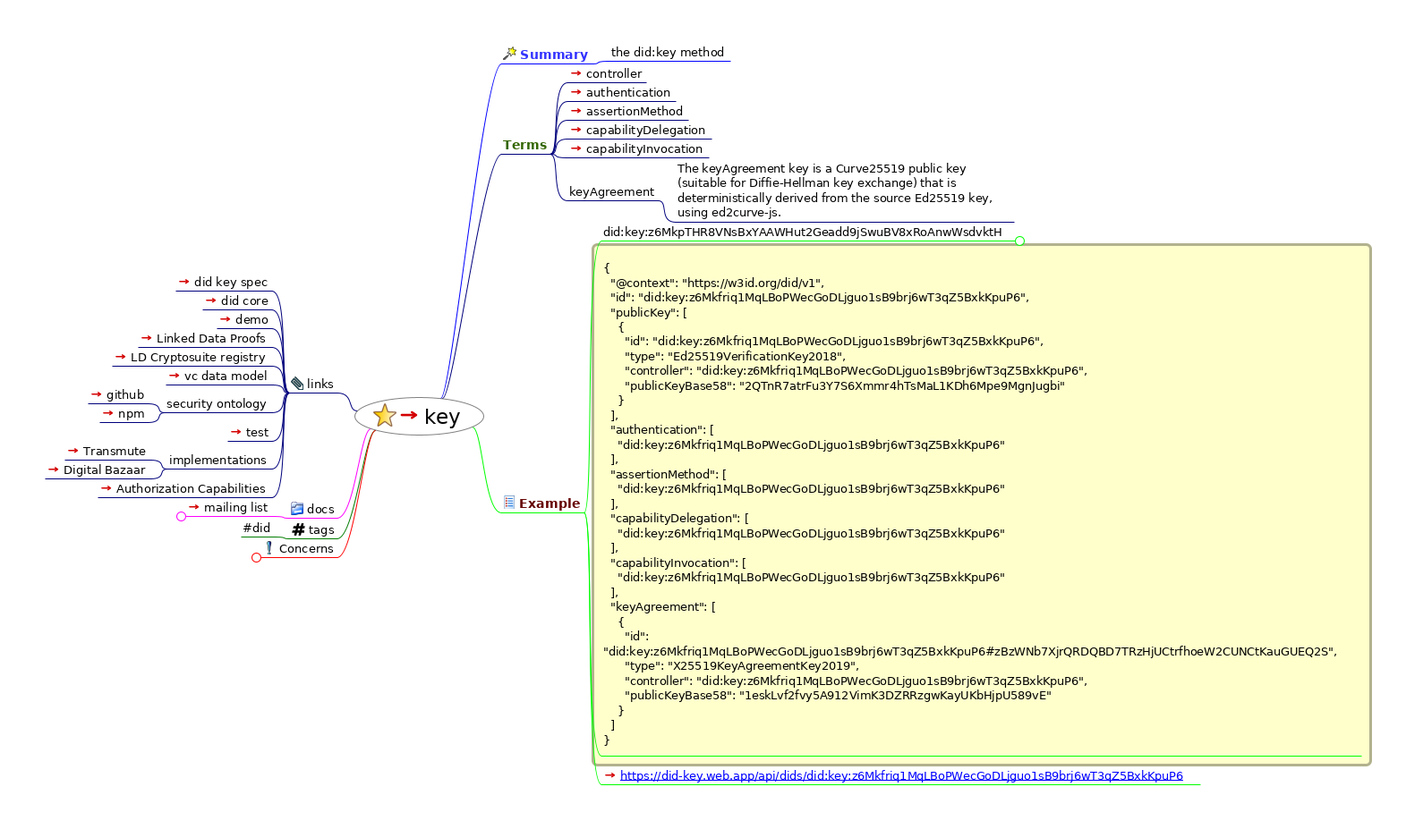
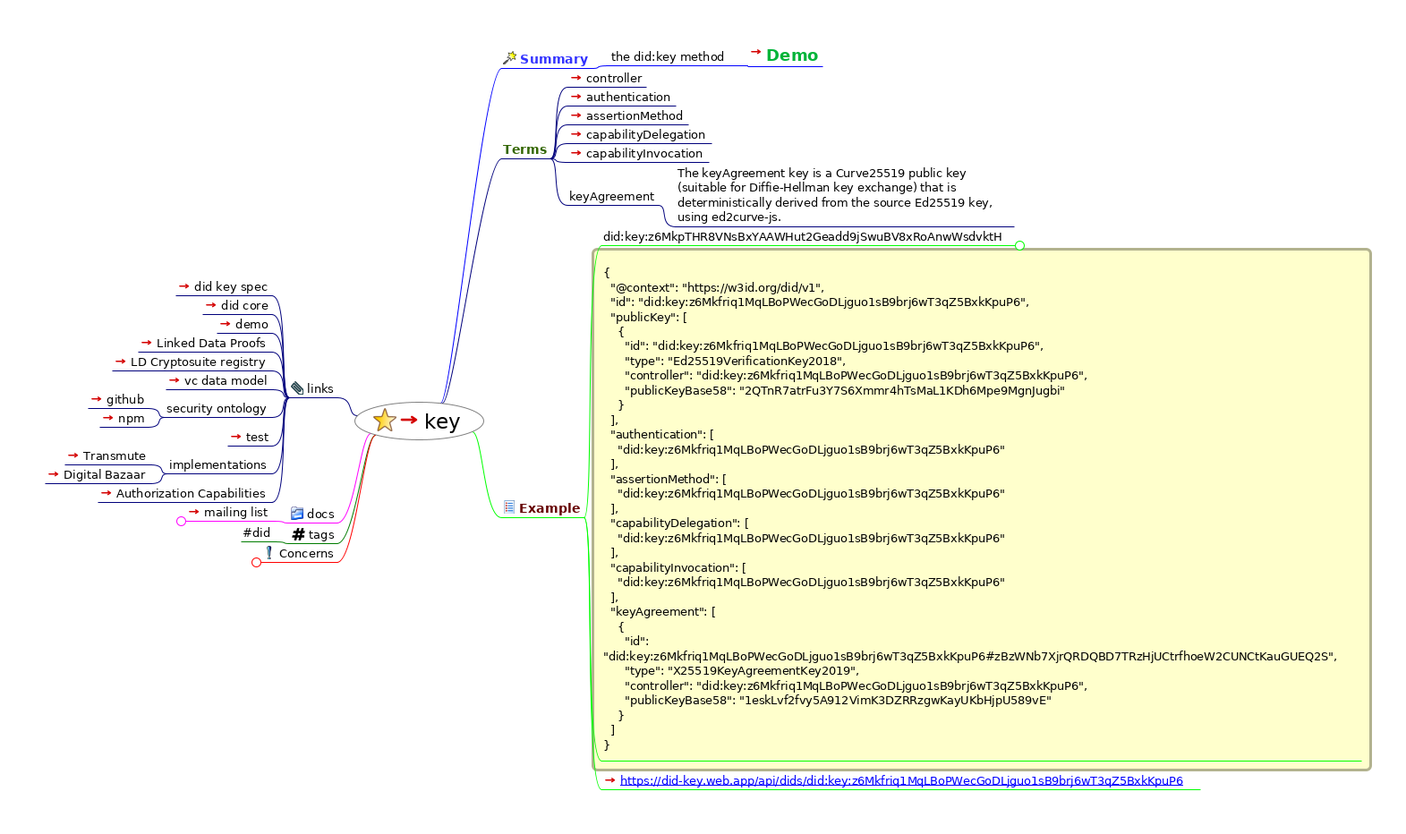
add demo to did key

diff --git a/w3c/did/key.html b/w3c/did/key.html
@@ -23,46 +23,47 @@
                    };
                };
           
-          --></script></head><body><h1>key</h1><div style="width:96%;  padding:2%;  margin-bottom:10px;  border: 0px;  text-align:center;  vertical-align:center;"><img src="key.html_files/image.png" style="margin-bottom:10px; &#9;border: 0px; &#9;text-align:center; &#9;vertical-align:center;" alt="Imagemap" usemap="#fm_imagemap" /></div><map name="fm_imagemap" id="fm_imagemap"><area shape="rect" href="index.html" alt="key" title="key" coords="396,444,541,487" />
-<area shape="rect" href="#FMID_1226961462FM" alt="Summary" title="Summary" coords="560,52,662,71" />
-<area shape="rect" href="#FMID_1311877564FM" alt="the did:key method" title="the did:key method" coords="681,50,816,68" />
-<area shape="rect" href="#FMID_45642208FM" alt="Terms" title="Terms" coords="560,153,615,172" />
-<area shape="rect" href="https://www.w3.org/TR/did-core/#terminology" alt="controller" title="controller" coords="634,74,722,92" />
-<area shape="rect" href="https://www.w3.org/TR/did-core/#authentication" alt="authentication" title="authentication" coords="634,95,755,113" />
-<area shape="rect" href="https://w3c.github.io/vc-data-model/#proofs-signatures-0" alt="assertionMethod" title="assertionMethod" coords="634,116,769,134" />
-<area shape="rect" href="https://w3c-ccg.github.io/zcap-ld/#terminology" alt="capabilityDelegation" title="capabilityDelegation" coords="634,137,795,155" />
-<area shape="rect" href="https://w3c-ccg.github.io/zcap-ld/#terminology" alt="capabilityInvocation" title="capabilityInvocation" coords="634,158,792,176" />
-<area shape="rect" href="#FMID_1908240927FM" alt="keyAgreement" title="keyAgreement" coords="634,206,736,224" />
-<area shape="rect" href="#FMID_1618462584FM" alt="The keyAgreement key is a Curve25519 pub ..." title="The keyAgreement key is a Curve25519 pub ..." coords="755,179,1133,248" />
-<area shape="rect" href="#FMID_120250381FM" alt="Example" title="Example" coords="560,554,653,573" />
-<area shape="rect" href="#FMID_985403617FM" alt="did:key:z6MkpTHR8VNsBxYAAWHut2Geadd9jSwu ..." title="did:key:z6MkpTHR8VNsBxYAAWHut2Geadd9jSwu ..." coords="672,251,1135,269" />
+          --></script></head><body><h1>key</h1><div style="width:96%;  padding:2%;  margin-bottom:10px;  border: 0px;  text-align:center;  vertical-align:center;"><img src="key.html_files/image.png" style="margin-bottom:10px; &#9;border: 0px; &#9;text-align:center; &#9;vertical-align:center;" alt="Imagemap" usemap="#fm_imagemap" /></div><map name="fm_imagemap" id="fm_imagemap"><area shape="rect" href="index.html" alt="key" title="key" coords="396,449,541,492" />
+<area shape="rect" href="#FMID_1226961462FM" alt="Summary" title="Summary" coords="560,57,662,76" />
+<area shape="rect" href="#FMID_1311877564FM" alt="the did:key method" title="the did:key method" coords="681,55,816,73" />
+<area shape="rect" href="https://did-key.web.app/" alt="Demo" title="Demo" coords="835,50,919,74" />
+<area shape="rect" href="#FMID_45642208FM" alt="Terms" title="Terms" coords="560,158,615,177" />
+<area shape="rect" href="https://www.w3.org/TR/did-core/#terminology" alt="controller" title="controller" coords="634,79,722,97" />
+<area shape="rect" href="https://www.w3.org/TR/did-core/#authentication" alt="authentication" title="authentication" coords="634,100,755,118" />
+<area shape="rect" href="https://w3c.github.io/vc-data-model/#proofs-signatures-0" alt="assertionMethod" title="assertionMethod" coords="634,121,769,139" />
+<area shape="rect" href="https://w3c-ccg.github.io/zcap-ld/#terminology" alt="capabilityDelegation" title="capabilityDelegation" coords="634,142,795,160" />
+<area shape="rect" href="https://w3c-ccg.github.io/zcap-ld/#terminology" alt="capabilityInvocation" title="capabilityInvocation" coords="634,163,792,181" />
+<area shape="rect" href="#FMID_1908240927FM" alt="keyAgreement" title="keyAgreement" coords="634,211,736,229" />
+<area shape="rect" href="#FMID_1618462584FM" alt="The keyAgreement key is a Curve25519 pub ..." title="The keyAgreement key is a Curve25519 pub ..." coords="755,184,1133,253" />
+<area shape="rect" href="#FMID_120250381FM" alt="Example" title="Example" coords="560,559,653,578" />
+<area shape="rect" href="#FMID_985403617FM" alt="did:key:z6MkpTHR8VNsBxYAAWHut2Geadd9jSwu ..." title="did:key:z6MkpTHR8VNsBxYAAWHut2Geadd9jSwu ..." coords="672,256,1135,274" />
 <area shape="rect" href="#FMID_63600178FM" alt="{
   &quot;@context&quot;: &quot;https://w3id.org/did/v1 ..." title="{
-  &quot;@context&quot;: &quot;https://w3id.org/did/v1 ..." coords="672,283,1521,845" />
-<area shape="rect" href="https://did-key.web.app/api/dids/did:key:z6Mkfriq1MqLBoPWecGoDLjguo1sB9brj6wT3qZ5BxkKpuP6" alt="https://did-key.web.app/api/dids/did:key ..." title="https://did-key.web.app/api/dids/did:key ..." coords="672,859,1341,877" />
-<area shape="rect" href="#FMID_808607355FM" alt="links" title="links" coords="323,421,377,439" />
-<area shape="rect" href="https://digitalbazaar.github.io/did-method-key/" alt="did key spec" title="did key spec" coords="196,307,304,325" />
-<area shape="rect" href="https://w3c.github.io/did-core/" alt="did core" title="did core" coords="226,328,304,346" />
-<area shape="rect" href="https://did-key.web.app/" alt="demo" title="demo" coords="242,349,304,367" />
-<area shape="rect" href="https://w3c-dvcg.github.io/ld-proofs/#proof-purpose" alt="Linked Data Proofs" title="Linked Data Proofs" coords="154,370,304,388" />
-<area shape="rect" href="https://w3c-ccg.github.io/ld-cryptosuite-registry/" alt="LD Cryptosuite registry" title="LD Cryptosuite registry" coords="125,391,304,409" />
-<area shape="rect" href="https://www.w3.org/TR/vc-data-model/" alt="vc data model" title="vc data model" coords="185,412,304,430" />
-<area shape="rect" href="#FMID_1879313086FM" alt="security ontology" title="security ontology" coords="184,443,304,461" />
-<area shape="rect" href="https://github.com/w3c-dvcg/security-vocab/blob/master/contexts/security-v2.jsonld#L39" alt="github" title="github" coords="98,433,165,451" />
-<area shape="rect" href="https://www.npmjs.com/package/security-context" alt="npm" title="npm" coords="111,454,165,472" />
-<area shape="rect" href="https://github.com/digitalbazaar/did-method-key-js/blob/master/tests/driver.spec.js" alt="test" title="test" coords="254,475,304,493" />
-<area shape="rect" href="#FMID_266162917FM" alt="implementations" title="implementations" coords="187,506,304,524" />
-<area shape="rect" href="https://github.com/transmute-industries/did-key" alt="Transmute" title="Transmute" coords="72,496,168,514" />
-<area shape="rect" href="https://github.com/digitalbazaar/did-method-key-js#table-of-contents" alt="Digital Bazaar" title="Digital Bazaar" coords="50,517,168,535" />
-<area shape="rect" href="https://w3c-ccg.github.io/zcap-ld/#terminology" alt="Authorization Capabilities" title="Authorization Capabilities" coords="109,538,304,556" />
-<area shape="rect" href="#FMID_1100215200FM" alt="docs" title="docs" coords="323,561,377,579" />
-<area shape="rect" href="https://lists.w3.org/Archives/Public/public-credentials/2019Nov/thread.html" alt="mailing list" title="mailing list" coords="207,559,304,577" />
-<area shape="rect" href="#FMID_466759422FM" alt="tags" title="tags" coords="324,584,377,602" />
-<area shape="rect" href="#FMID_1467263929FM" alt="#did" title="#did" coords="269,582,305,600" />
-<area shape="rect" href="#FMID_1414960960FM" alt="Concerns" title="Concerns" coords="291,605,377,623" />
+  &quot;@context&quot;: &quot;https://w3id.org/did/v1 ..." coords="672,288,1521,850" />
+<area shape="rect" href="https://did-key.web.app/api/dids/did:key:z6Mkfriq1MqLBoPWecGoDLjguo1sB9brj6wT3qZ5BxkKpuP6" alt="https://did-key.web.app/api/dids/did:key ..." title="https://did-key.web.app/api/dids/did:key ..." coords="672,864,1341,882" />
+<area shape="rect" href="#FMID_808607355FM" alt="links" title="links" coords="323,426,377,444" />
+<area shape="rect" href="https://digitalbazaar.github.io/did-method-key/" alt="did key spec" title="did key spec" coords="196,312,304,330" />
+<area shape="rect" href="https://w3c.github.io/did-core/" alt="did core" title="did core" coords="226,333,304,351" />
+<area shape="rect" href="https://did-key.web.app/" alt="demo" title="demo" coords="242,354,304,372" />
+<area shape="rect" href="https://w3c-dvcg.github.io/ld-proofs/#proof-purpose" alt="Linked Data Proofs" title="Linked Data Proofs" coords="154,375,304,393" />
+<area shape="rect" href="https://w3c-ccg.github.io/ld-cryptosuite-registry/" alt="LD Cryptosuite registry" title="LD Cryptosuite registry" coords="125,396,304,414" />
+<area shape="rect" href="https://www.w3.org/TR/vc-data-model/" alt="vc data model" title="vc data model" coords="185,417,304,435" />
+<area shape="rect" href="#FMID_1879313086FM" alt="security ontology" title="security ontology" coords="184,448,304,466" />
+<area shape="rect" href="https://github.com/w3c-dvcg/security-vocab/blob/master/contexts/security-v2.jsonld#L39" alt="github" title="github" coords="98,438,165,456" />
+<area shape="rect" href="https://www.npmjs.com/package/security-context" alt="npm" title="npm" coords="111,459,165,477" />
+<area shape="rect" href="https://github.com/digitalbazaar/did-method-key-js/blob/master/tests/driver.spec.js" alt="test" title="test" coords="254,480,304,498" />
+<area shape="rect" href="#FMID_266162917FM" alt="implementations" title="implementations" coords="187,511,304,529" />
+<area shape="rect" href="https://github.com/transmute-industries/did-key" alt="Transmute" title="Transmute" coords="72,501,168,519" />
+<area shape="rect" href="https://github.com/digitalbazaar/did-method-key-js#table-of-contents" alt="Digital Bazaar" title="Digital Bazaar" coords="50,522,168,540" />
+<area shape="rect" href="https://w3c-ccg.github.io/zcap-ld/#terminology" alt="Authorization Capabilities" title="Authorization Capabilities" coords="109,543,304,561" />
+<area shape="rect" href="#FMID_1100215200FM" alt="docs" title="docs" coords="323,566,377,584" />
+<area shape="rect" href="https://lists.w3.org/Archives/Public/public-credentials/2019Nov/thread.html" alt="mailing list" title="mailing list" coords="207,564,304,582" />
+<area shape="rect" href="#FMID_466759422FM" alt="tags" title="tags" coords="324,589,377,607" />
+<area shape="rect" href="#FMID_1467263929FM" alt="#did" title="#did" coords="269,587,305,605" />
+<area shape="rect" href="#FMID_1414960960FM" alt="Concerns" title="Concerns" coords="291,610,377,628" />
 </map>
 
[2 lines of base64/hex data omitted]
     <a http-equiv="content-type" content="text/html; charset=utf-8" href="https://did-key.web.app/api/dids/did:key:z6Mkfriq1MqLBoPWecGoDLjguo1sB9brj6wT3qZ5BxkKpuP6">https://did-key.web.app/api/dids/did:key:z6Mkfriq1MqLBoPWecGoDLjguo1sB9brj6wT3qZ5BxkKpuP6</a>
-  </a> <a href="https://did-key.web.app/api/dids/did:key:z6Mkfriq1MqLBoPWecGoDLjguo1sB9brj6wT3qZ5BxkKpuP6"><img src="key.html_files/ilink.png" alt="User Link" style="border-width:0" /></a></div></div></div></div><div class="node"><img src="key.html_files/hide.png" class="hideshow" alt="hide" onClick="toggle(&quot;N67027&quot;)" id="imgN67027" /><img src="key.html_files/icons/attach.svg" alt="attach" /> <a id="FMID_808607355FM" /><div class="nodecontent" style="color:#000000;font-size:83%;">links</div><div class="content" id="N67027"><div class="node"><img src="key.html_files/leaf.png" class="hideshow" alt="leaf" /><a id="FMID_674273555FM" /><div class="nodecontent" style="color:#000000;font-size:83%;"><a href="https://digitalbazaar.github.io/did-method-key/">did key spec</a> <a href="https://digitalbazaar.github.io/did-method-key/"><img src="key.html_files/ilink.png" alt="User Link" style="border-width:0" /></a></div></div><div class="node"><img src="key.html_files/leaf.png" class="hideshow" alt="leaf" /><a id="FMID_1309388462FM" /><div class="nodecontent" style="color:#000000;font-size:83%;"><a href="https://w3c.github.io/did-core/">did core</a> <a href="https://w3c.github.io/did-core/"><img src="key.html_files/ilink.png" alt="User Link" style="border-width:0" /></a></div></div><div class="node"><img src="key.html_files/leaf.png" class="hideshow" alt="leaf" /><a id="FMID_863930071FM" /><div class="nodecontent" style="color:#000000;font-size:83%;"><a href="https://did-key.web.app/">demo</a> <a href="https://did-key.web.app/"><img src="key.html_files/ilink.png" alt="User Link" style="border-width:0" /></a></div></div><div class="node"><img src="key.html_files/leaf.png" class="hideshow" alt="leaf" /><a id="FMID_320437573FM" /><div class="nodecontent" style="color:#000000;font-size:83%;"><a href="https://w3c-dvcg.github.io/ld-proofs/#proof-purpose">Linked Data Proofs</a> <a href="https://w3c-dvcg.github.io/ld-proofs/#proof-purpose"><img src="key.html_files/ilink.png" alt="User Link" style="border-width:0" /></a></div></div><div class="node"><img src="key.html_files/leaf.png" class="hideshow" alt="leaf" /><a id="FMID_570765293FM" /><div class="nodecontent" style="color:#000000;font-size:83%;"><a href="https://w3c-ccg.github.io/ld-cryptosuite-registry/">LD Cryptosuite registry</a> <a href="https://w3c-ccg.github.io/ld-cryptosuite-registry/"><img src="key.html_files/ilink.png" alt="User Link" style="border-width:0" /></a></div></div><div class="node"><img src="key.html_files/leaf.png" class="hideshow" alt="leaf" /><a id="FMID_1387965929FM" /><div class="nodecontent" style="color:#000000;font-size:83%;"><a href="https://www.w3.org/TR/vc-data-model/">vc data model</a> <a href="https://www.w3.org/TR/vc-data-model/"><img src="key.html_files/ilink.png" alt="User Link" style="border-width:0" /></a></div></div><div class="node"><img src="key.html_files/hide.png" class="hideshow" alt="hide" onClick="toggle(&quot;N67290&quot;)" id="imgN67290" /><a id="FMID_1879313086FM" /><div class="nodecontent" style="color:#000000;font-size:83%;">security ontology</div><div class="content" id="N67290"><div class="node"><img src="key.html_files/leaf.png" class="hideshow" alt="leaf" /><a id="FMID_1802414645FM" /><div class="nodecontent" style="color:#000000;font-size:83%;"><a href="https://github.com/w3c-dvcg/security-vocab/blob/master/contexts/security-v2.jsonld#L39">github</a> <a href="https://github.com/w3c-dvcg/security-vocab/blob/master/contexts/security-v2.jsonld#L39"><img src="key.html_files/ilink.png" alt="User Link" style="border-width:0" /></a></div></div><div class="node"><img src="key.html_files/leaf.png" class="hideshow" alt="leaf" /><a id="FMID_689455920FM" /><div class="nodecontent" style="color:#000000;font-size:83%;"><a href="https://www.npmjs.com/package/security-context">npm</a> <a href="https://www.npmjs.com/package/security-context"><img src="key.html_files/ilink.png" alt="User Link" style="border-width:0" /></a></div></div></div></div><div class="node"><img src="key.html_files/leaf.png" class="hideshow" alt="leaf" /><a id="FMID_1984008598FM" /><div class="nodecontent" style="color:#000000;font-size:83%;"><a href="https://github.com/digitalbazaar/did-method-key-js/blob/master/tests/driver.spec.js">test</a> <a href="https://github.com/digitalbazaar/did-method-key-js/blob/master/tests/driver.spec.js"><img src="key.html_files/ilink.png" alt="User Link" style="border-width:0" /></a></div></div><div class="node"><img src="key.html_files/hide.png" class="hideshow" alt="hide" onClick="toggle(&quot;N67437&quot;)" id="imgN67437" /><a id="FMID_266162917FM" /><div class="nodecontent" style="color:#000000;font-size:83%;">implementations</div><div class="content" id="N67437"><div class="node"><img src="key.html_files/leaf.png" class="hideshow" alt="leaf" /><a id="FMID_699814464FM" /><div class="nodecontent" style="color:#000000;font-size:83%;"><a href="https://github.com/transmute-industries/did-key">Transmute</a> <a href="https://github.com/transmute-industries/did-key"><img src="key.html_files/ilink.png" alt="User Link" style="border-width:0" /></a></div></div><div class="node"><img src="key.html_files/leaf.png" class="hideshow" alt="leaf" /><a id="FMID_20457538FM" /><div class="nodecontent" style="color:#000000;font-size:83%;"><a href="https://github.com/digitalbazaar/did-method-key-js#table-of-contents">Digital Bazaar</a> <a href="https://github.com/digitalbazaar/did-method-key-js#table-of-contents"><img src="key.html_files/ilink.png" alt="User Link" style="border-width:0" /></a></div></div></div></div><div class="node"><img src="key.html_files/leaf.png" class="hideshow" alt="leaf" /><a id="FMID_1650944418FM" /><div class="nodecontent" style="color:#000000;font-size:83%;"><a href="https://w3c-ccg.github.io/zcap-ld/#terminology">Authorization Capabilities</a> <a href="https://w3c-ccg.github.io/zcap-ld/#terminology"><img src="key.html_files/ilink.png" alt="User Link" style="border-width:0" /></a></div></div></div></div><div class="node"><img src="key.html_files/hide.png" class="hideshow" alt="hide" onClick="toggle(&quot;N67585&quot;)" id="imgN67585" /><img src="key.html_files/icons/folder.svg" alt="folder" /> <a id="FMID_1100215200FM" /><div class="nodecontent" style="color:#000000;font-size:83%;">docs</div><div class="content" id="N67585"><div class="node"><img src="key.html_files/hide.png" class="hideshow" alt="hide" onClick="toggle(&quot;N67626&quot;)" id="imgN67626" /><a id="FMID_307060603FM" /><div class="nodecontent" style="color:#000000;font-size:83%;"><a href="https://lists.w3.org/Archives/Public/public-credentials/2019Nov/thread.html">mailing list</a> <a href="https://lists.w3.org/Archives/Public/public-credentials/2019Nov/thread.html"><img src="key.html_files/ilink.png" alt="User Link" style="border-width:0" /></a></div><div class="content" id="N67626"><div class="node"><img src="key.html_files/hide.png" class="hideshow" alt="hide" onClick="toggle(&quot;N67663&quot;)" id="imgN67663" /><a id="FMID_387619455FM" /><div class="nodecontent" style="color:#000000;font-size:83%;">Discussion</div><div class="content" id="N67663"><div class="node"><img src="key.html_files/hide.png" class="hideshow" alt="hide" onClick="toggle(&quot;N67698&quot;)" id="imgN67698" /><a id="FMID_142448183FM" /><div class="nodecontent" style="color:#000000;font-size:83%;">Mailing LIst</div><div class="content" id="N67698"><div class="node"><img src="key.html_files/hide.png" class="hideshow" alt="hide" onClick="toggle(&quot;N67733&quot;)" id="imgN67733" /><a id="FMID_1424305860FM" /><div class="nodecontent" style="color:#000000;font-size:83%;"><a href="https://lists.w3.org/Archives/Public/public-credentials/2019Nov/0099.html">Clarify syntax and predicates</a> <a href="https://lists.w3.org/Archives/Public/public-credentials/2019Nov/0099.html"><img src="key.html_files/ilink.png" alt="User Link" style="border-width:0" /></a></div><div class="content" id="N67733"><div class="node"><img src="key.html_files/leaf.png" class="hideshow" alt="leaf" /><a id="FMID_1445806045FM" /><div class="nodecontent" style="color:#000000;font-size:83%;">Melvin Carvalho</div></div></div></div><div class="node"><img src="key.html_files/hide.png" class="hideshow" alt="hide" onClick="toggle(&quot;N67806&quot;)" id="imgN67806" /><a id="FMID_527755790FM" /><div class="nodecontent" style="color:#000000;font-size:83%;"><a href="https://lists.w3.org/Archives/Public/public-credentials/2019Nov/0101.html">Clarifications and demo</a> <a href="https://lists.w3.org/Archives/Public/public-credentials/2019Nov/0101.html"><img src="key.html_files/ilink.png" alt="User Link" style="border-width:0" /></a></div><div class="content" id="N67806"><div class="node"><img src="key.html_files/leaf.png" class="hideshow" alt="leaf" /><a id="FMID_1746695661FM" /><div class="nodecontent" style="color:#000000;font-size:83%;">Manu Sporny</div></div></div></div></div></div></div></div></div></div></div></div><div class="node"><img src="key.html_files/hide.png" class="hideshow" alt="hide" onClick="toggle(&quot;N67883&quot;)" id="imgN67883" /><img src="key.html_files/icons/hashtag.png" alt="hashtag" /> <a id="FMID_466759422FM" /><div class="nodecontent" style="color:#000000;font-size:83%;">tags</div><div class="content" id="N67883"><div class="node"><img src="key.html_files/leaf.png" class="hideshow" alt="leaf" /><a id="FMID_1467263929FM" /><div class="nodecontent" style="color:#000000;font-size:83%;">#did</div></div></div></div><div class="node"><img src="key.html_files/hide.png" class="hideshow" alt="hide" onClick="toggle(&quot;N67961&quot;)" id="imgN67961" /><img src="key.html_files/icons/yes.svg" alt="yes" /> <a id="FMID_1414960960FM" /><div class="nodecontent" style="color:#000000;font-size:83%;">Concerns</div><div class="content" id="N67961"><div class="node"><img src="key.html_files/hide.png" class="hideshow" alt="hide" onClick="toggle(&quot;N68003&quot;)" id="imgN68003" /><a id="FMID_1039236328FM" /><div class="nodecontent" style="color:#000000;font-size:83%;">claims</div><div class="content" id="N68003"><div class="node"><img src="key.html_files/leaf.png" class="hideshow" alt="leaf" /><a id="FMID_1634354247FM" /><div class="nodecontent" style="color:#000000;font-size:83%;">simplest possible implementation of a DID Method</div></div><div class="node"><img src="key.html_files/leaf.png" class="hideshow" alt="leaf" /><a id="FMID_1386411919FM" /><div class="nodecontent" style="color:#000000;font-size:83%;">This seems far from simple</div></div></div></div><div class="node"><img src="key.html_files/leaf.png" class="hideshow" alt="leaf" /><a id="FMID_139120582FM" /><div class="nodecontent" style="color:#000000;font-size:83%;">not easy to understand what predicates mean</div></div><div class="node"><img src="key.html_files/leaf.png" class="hideshow" alt="leaf" /><a id="FMID_342298248FM" /><div class="nodecontent" style="color:#000000;font-size:83%;">camelCase</div></div><div class="node"><img src="key.html_files/leaf.png" class="hideshow" alt="leaf" /><a id="FMID_1487848180FM" /><div class="nodecontent" style="color:#000000;font-size:83%;">one example uses pubkey with fragment the other uses the did</div></div></div></div></div></div>
+  </a> <a href="https://did-key.web.app/api/dids/did:key:z6Mkfriq1MqLBoPWecGoDLjguo1sB9brj6wT3qZ5BxkKpuP6"><img src="key.html_files/ilink.png" alt="User Link" style="border-width:0" /></a></div></div></div></div><div class="node"><img src="key.html_files/hide.png" class="hideshow" alt="hide" onClick="toggle(&quot;N67065&quot;)" id="imgN67065" /><img src="key.html_files/icons/attach.svg" alt="attach" /> <a id="FMID_808607355FM" /><div class="nodecontent" style="color:#000000;font-size:83%;">links</div><div class="content" id="N67065"><div class="node"><img src="key.html_files/leaf.png" class="hideshow" alt="leaf" /><a id="FMID_674273555FM" /><div class="nodecontent" style="color:#000000;font-size:83%;"><a href="https://digitalbazaar.github.io/did-method-key/">did key spec</a> <a href="https://digitalbazaar.github.io/did-method-key/"><img src="key.html_files/ilink.png" alt="User Link" style="border-width:0" /></a></div></div><div class="node"><img src="key.html_files/leaf.png" class="hideshow" alt="leaf" /><a id="FMID_1309388462FM" /><div class="nodecontent" style="color:#000000;font-size:83%;"><a href="https://w3c.github.io/did-core/">did core</a> <a href="https://w3c.github.io/did-core/"><img src="key.html_files/ilink.png" alt="User Link" style="border-width:0" /></a></div></div><div class="node"><img src="key.html_files/leaf.png" class="hideshow" alt="leaf" /><a id="FMID_863930071FM" /><div class="nodecontent" style="color:#000000;font-size:83%;"><a href="https://did-key.web.app/">demo</a> <a href="https://did-key.web.app/"><img src="key.html_files/ilink.png" alt="User Link" style="border-width:0" /></a></div></div><div class="node"><img src="key.html_files/leaf.png" class="hideshow" alt="leaf" /><a id="FMID_320437573FM" /><div class="nodecontent" style="color:#000000;font-size:83%;"><a href="https://w3c-dvcg.github.io/ld-proofs/#proof-purpose">Linked Data Proofs</a> <a href="https://w3c-dvcg.github.io/ld-proofs/#proof-purpose"><img src="key.html_files/ilink.png" alt="User Link" style="border-width:0" /></a></div></div><div class="node"><img src="key.html_files/leaf.png" class="hideshow" alt="leaf" /><a id="FMID_570765293FM" /><div class="nodecontent" style="color:#000000;font-size:83%;"><a href="https://w3c-ccg.github.io/ld-cryptosuite-registry/">LD Cryptosuite registry</a> <a href="https://w3c-ccg.github.io/ld-cryptosuite-registry/"><img src="key.html_files/ilink.png" alt="User Link" style="border-width:0" /></a></div></div><div class="node"><img src="key.html_files/leaf.png" class="hideshow" alt="leaf" /><a id="FMID_1387965929FM" /><div class="nodecontent" style="color:#000000;font-size:83%;"><a href="https://www.w3.org/TR/vc-data-model/">vc data model</a> <a href="https://www.w3.org/TR/vc-data-model/"><img src="key.html_files/ilink.png" alt="User Link" style="border-width:0" /></a></div></div><div class="node"><img src="key.html_files/hide.png" class="hideshow" alt="hide" onClick="toggle(&quot;N67328&quot;)" id="imgN67328" /><a id="FMID_1879313086FM" /><div class="nodecontent" style="color:#000000;font-size:83%;">security ontology</div><div class="content" id="N67328"><div class="node"><img src="key.html_files/leaf.png" class="hideshow" alt="leaf" /><a id="FMID_1802414645FM" /><div class="nodecontent" style="color:#000000;font-size:83%;"><a href="https://github.com/w3c-dvcg/security-vocab/blob/master/contexts/security-v2.jsonld#L39">github</a> <a href="https://github.com/w3c-dvcg/security-vocab/blob/master/contexts/security-v2.jsonld#L39"><img src="key.html_files/ilink.png" alt="User Link" style="border-width:0" /></a></div></div><div class="node"><img src="key.html_files/leaf.png" class="hideshow" alt="leaf" /><a id="FMID_689455920FM" /><div class="nodecontent" style="color:#000000;font-size:83%;"><a href="https://www.npmjs.com/package/security-context">npm</a> <a href="https://www.npmjs.com/package/security-context"><img src="key.html_files/ilink.png" alt="User Link" style="border-width:0" /></a></div></div></div></div><div class="node"><img src="key.html_files/leaf.png" class="hideshow" alt="leaf" /><a id="FMID_1984008598FM" /><div class="nodecontent" style="color:#000000;font-size:83%;"><a href="https://github.com/digitalbazaar/did-method-key-js/blob/master/tests/driver.spec.js">test</a> <a href="https://github.com/digitalbazaar/did-method-key-js/blob/master/tests/driver.spec.js"><img src="key.html_files/ilink.png" alt="User Link" style="border-width:0" /></a></div></div><div class="node"><img src="key.html_files/hide.png" class="hideshow" alt="hide" onClick="toggle(&quot;N67475&quot;)" id="imgN67475" /><a id="FMID_266162917FM" /><div class="nodecontent" style="color:#000000;font-size:83%;">implementations</div><div class="content" id="N67475"><div class="node"><img src="key.html_files/leaf.png" class="hideshow" alt="leaf" /><a id="FMID_699814464FM" /><div class="nodecontent" style="color:#000000;font-size:83%;"><a href="https://github.com/transmute-industries/did-key">Transmute</a> <a href="https://github.com/transmute-industries/did-key"><img src="key.html_files/ilink.png" alt="User Link" style="border-width:0" /></a></div></div><div class="node"><img src="key.html_files/leaf.png" class="hideshow" alt="leaf" /><a id="FMID_20457538FM" /><div class="nodecontent" style="color:#000000;font-size:83%;"><a href="https://github.com/digitalbazaar/did-method-key-js#table-of-contents">Digital Bazaar</a> <a href="https://github.com/digitalbazaar/did-method-key-js#table-of-contents"><img src="key.html_files/ilink.png" alt="User Link" style="border-width:0" /></a></div></div></div></div><div class="node"><img src="key.html_files/leaf.png" class="hideshow" alt="leaf" /><a id="FMID_1650944418FM" /><div class="nodecontent" style="color:#000000;font-size:83%;"><a href="https://w3c-ccg.github.io/zcap-ld/#terminology">Authorization Capabilities</a> <a href="https://w3c-ccg.github.io/zcap-ld/#terminology"><img src="key.html_files/ilink.png" alt="User Link" style="border-width:0" /></a></div></div></div></div><div class="node"><img src="key.html_files/hide.png" class="hideshow" alt="hide" onClick="toggle(&quot;N67623&quot;)" id="imgN67623" /><img src="key.html_files/icons/folder.svg" alt="folder" /> <a id="FMID_1100215200FM" /><div class="nodecontent" style="color:#000000;font-size:83%;">docs</div><div class="content" id="N67623"><div class="node"><img src="key.html_files/hide.png" class="hideshow" alt="hide" onClick="toggle(&quot;N67664&quot;)" id="imgN67664" /><a id="FMID_307060603FM" /><div class="nodecontent" style="color:#000000;font-size:83%;"><a href="https://lists.w3.org/Archives/Public/public-credentials/2019Nov/thread.html">mailing list</a> <a href="https://lists.w3.org/Archives/Public/public-credentials/2019Nov/thread.html"><img src="key.html_files/ilink.png" alt="User Link" style="border-width:0" /></a></div><div class="content" id="N67664"><div class="node"><img src="key.html_files/hide.png" class="hideshow" alt="hide" onClick="toggle(&quot;N67701&quot;)" id="imgN67701" /><a id="FMID_387619455FM" /><div class="nodecontent" style="color:#000000;font-size:83%;">Discussion</div><div class="content" id="N67701"><div class="node"><img src="key.html_files/hide.png" class="hideshow" alt="hide" onClick="toggle(&quot;N67736&quot;)" id="imgN67736" /><a id="FMID_142448183FM" /><div class="nodecontent" style="color:#000000;font-size:83%;">Mailing LIst</div><div class="content" id="N67736"><div class="node"><img src="key.html_files/hide.png" class="hideshow" alt="hide" onClick="toggle(&quot;N67771&quot;)" id="imgN67771" /><a id="FMID_1424305860FM" /><div class="nodecontent" style="color:#000000;font-size:83%;"><a href="https://lists.w3.org/Archives/Public/public-credentials/2019Nov/0099.html">Clarify syntax and predicates</a> <a href="https://lists.w3.org/Archives/Public/public-credentials/2019Nov/0099.html"><img src="key.html_files/ilink.png" alt="User Link" style="border-width:0" /></a></div><div class="content" id="N67771"><div class="node"><img src="key.html_files/leaf.png" class="hideshow" alt="leaf" /><a id="FMID_1445806045FM" /><div class="nodecontent" style="color:#000000;font-size:83%;">Melvin Carvalho</div></div></div></div><div class="node"><img src="key.html_files/hide.png" class="hideshow" alt="hide" onClick="toggle(&quot;N67844&quot;)" id="imgN67844" /><a id="FMID_527755790FM" /><div class="nodecontent" style="color:#000000;font-size:83%;"><a href="https://lists.w3.org/Archives/Public/public-credentials/2019Nov/0101.html">Clarifications and demo</a> <a href="https://lists.w3.org/Archives/Public/public-credentials/2019Nov/0101.html"><img src="key.html_files/ilink.png" alt="User Link" style="border-width:0" /></a></div><div class="content" id="N67844"><div class="node"><img src="key.html_files/leaf.png" class="hideshow" alt="leaf" /><a id="FMID_1746695661FM" /><div class="nodecontent" style="color:#000000;font-size:83%;">Manu Sporny</div></div></div></div></div></div></div></div></div></div></div></div><div class="node"><img src="key.html_files/hide.png" class="hideshow" alt="hide" onClick="toggle(&quot;N67921&quot;)" id="imgN67921" /><img src="key.html_files/icons/hashtag.png" alt="hashtag" /> <a id="FMID_466759422FM" /><div class="nodecontent" style="color:#000000;font-size:83%;">tags</div><div class="content" id="N67921"><div class="node"><img src="key.html_files/leaf.png" class="hideshow" alt="leaf" /><a id="FMID_1467263929FM" /><div class="nodecontent" style="color:#000000;font-size:83%;">#did</div></div></div></div><div class="node"><img src="key.html_files/hide.png" class="hideshow" alt="hide" onClick="toggle(&quot;N67999&quot;)" id="imgN67999" /><img src="key.html_files/icons/yes.svg" alt="yes" /> <a id="FMID_1414960960FM" /><div class="nodecontent" style="color:#000000;font-size:83%;">Concerns</div><div class="content" id="N67999"><div class="node"><img src="key.html_files/hide.png" class="hideshow" alt="hide" onClick="toggle(&quot;N68041&quot;)" id="imgN68041" /><a id="FMID_1039236328FM" /><div class="nodecontent" style="color:#000000;font-size:83%;">claims</div><div class="content" id="N68041"><div class="node"><img src="key.html_files/leaf.png" class="hideshow" alt="leaf" /><a id="FMID_1634354247FM" /><div class="nodecontent" style="color:#000000;font-size:83%;">simplest possible implementation of a DID Method</div></div><div class="node"><img src="key.html_files/leaf.png" class="hideshow" alt="leaf" /><a id="FMID_1386411919FM" /><div class="nodecontent" style="color:#000000;font-size:83%;">This seems far from simple</div></div></div></div><div class="node"><img src="key.html_files/leaf.png" class="hideshow" alt="leaf" /><a id="FMID_139120582FM" /><div class="nodecontent" style="color:#000000;font-size:83%;">not easy to understand what predicates mean</div></div><div class="node"><img src="key.html_files/leaf.png" class="hideshow" alt="leaf" /><a id="FMID_342298248FM" /><div class="nodecontent" style="color:#000000;font-size:83%;">camelCase</div></div><div class="node"><img src="key.html_files/leaf.png" class="hideshow" alt="leaf" /><a id="FMID_1487848180FM" /><div class="nodecontent" style="color:#000000;font-size:83%;">one example uses pubkey with fragment the other uses the did</div></div></div></div></div></div>
 </body></html>

diff --git a/w3c/did/key.mm b/w3c/did/key.mm
@@ -64,12 +64,16 @@
 </stylenode>
 </map_styles>
 </hook>
-<hook NAME="AutomaticEdgeColor" COUNTER="7" RULE="ON_BRANCH_CREATION"/>
+<hook NAME="AutomaticEdgeColor" COUNTER="8" RULE="ON_BRANCH_CREATION"/>
 <node TEXT="Summary" POSITION="right" ID="ID_1226961462" CREATED="1570979963389" MODIFIED="1570980209554" COLOR="#3333ff">
 <icon BUILTIN="wizard"/>
 <font SIZE="11" BOLD="true"/>
 <edge COLOR="#0000ff"/>
-<node TEXT="the did:key method" ID="ID_1311877564" CREATED="1574530845000" MODIFIED="1574615222174"/>
+<node TEXT="the did:key method" ID="ID_1311877564" CREATED="1574530845000" MODIFIED="1574615222174">
+<node TEXT="Demo" LOCALIZED_STYLE_REF="AutomaticLayout.level,2" ID="ID_1464250735" CREATED="1574789274639" MODIFIED="1574789303054" LINK="https://did-key.web.app/">
+<font BOLD="true"/>
+</node>
+</node>
 </node>
 <node TEXT="Terms" POSITION="right" ID="ID_45642208" CREATED="1574615830873" MODIFIED="1574789115380" COLOR="#336600">
 <edge COLOR="#00007c"/>
